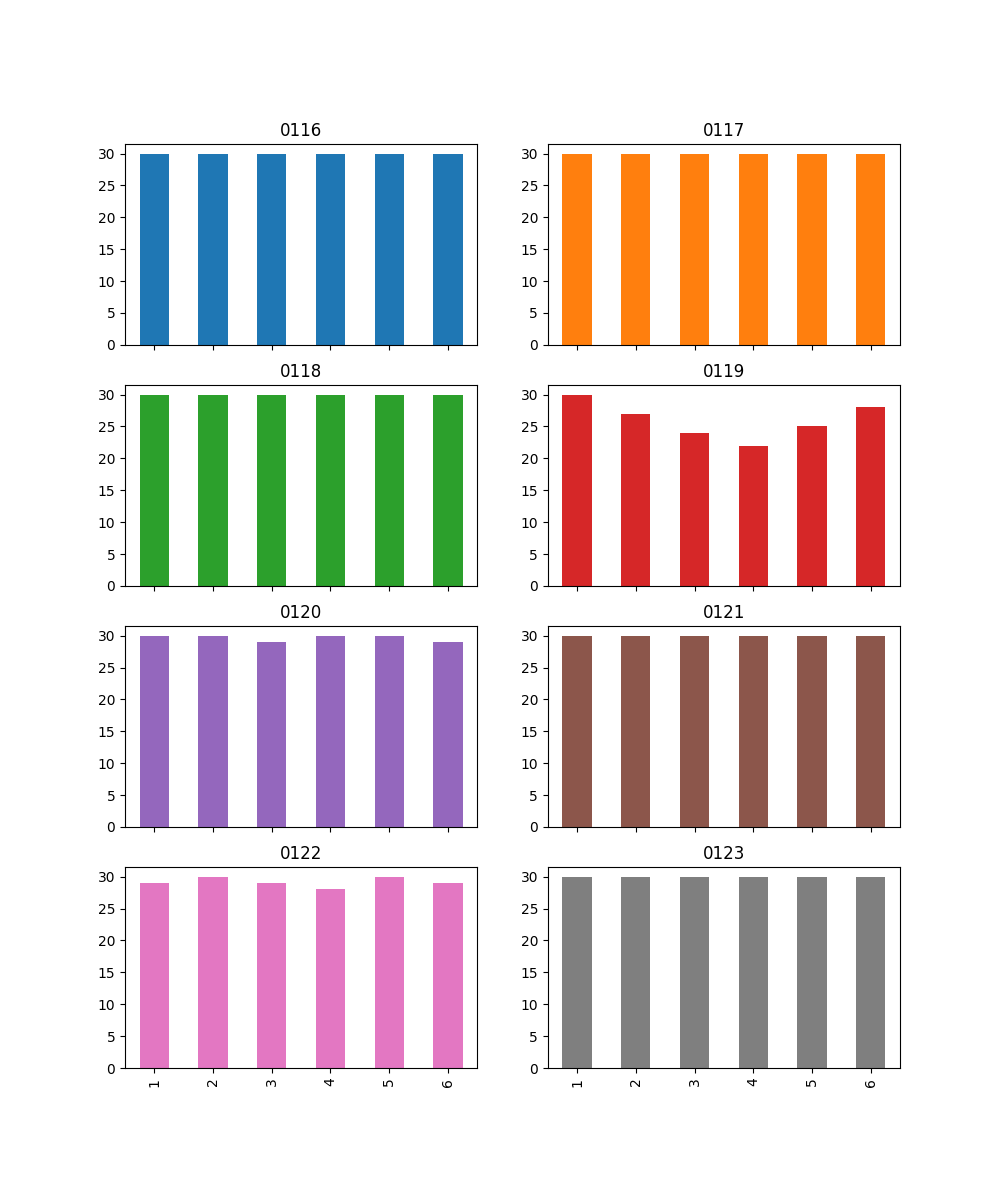
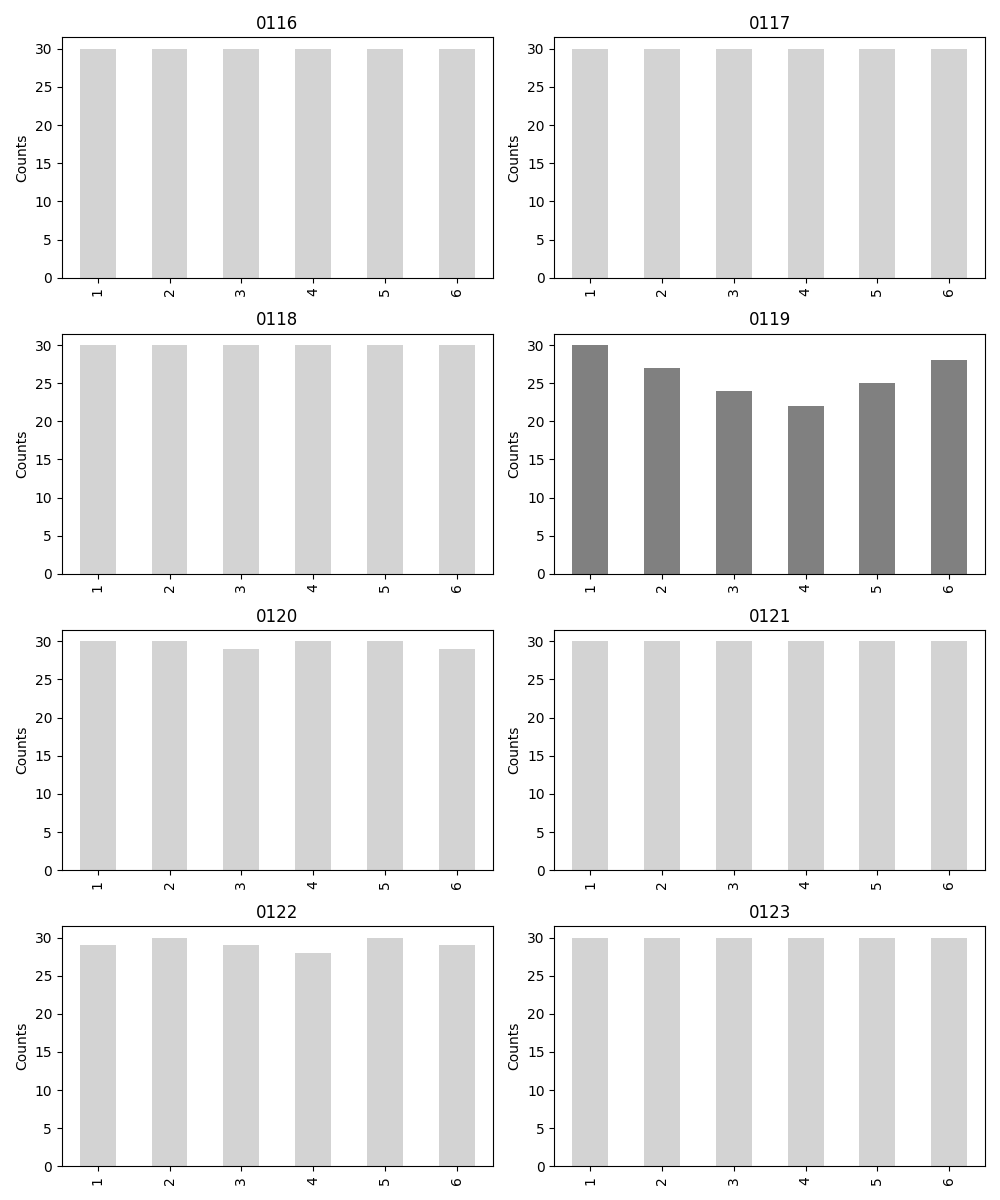
changed so outlier subjects are highlighted

diff --git a/src/sanity_check.py b/src/sanity_check.py
@@ -90,18 +90,25 @@ def get_button_press_per_run(bids_path, subjects_list,):
 
     return counts_df
 
-def plot_button_press_counts(counts_df, save_path=None):
+def plot_button_press_counts(counts_df, highlight_subjects, save_path=None):
     '''
     Plotting button press counts from a counts df using pandas 
     '''
-    # set canvas
-    plot = counts_df.plot(
-        subplots=True, 
-        layout=(4,2), 
-        kind = "bar", 
-        figsize=(10,12),
-        legend=False
-        )
+    # create subplots
+    fig, axes = plt.subplots(nrows=4, ncols=2, figsize=(10, 12))
+    axes = axes.flatten()
+
+    # set the plots
+    for i, column in enumerate(counts_df.columns):
+        ax = axes[i]
+        # Color condition
+        color = ['#808080' if col in highlight_subjects else '#D3D3D3' for col in counts_df.columns]
+        counts_df[column].plot(kind='bar', ax=ax, color=color[i])
+        ax.set_title(column)
+        ax.set_ylabel('Counts')
+        ax.legend().set_visible(False)
+
+    plt.tight_layout()
 
     # save fig
     if save_path:
@@ -119,7 +126,7 @@ def test():
     subjects = ["0116", "0117", "0118", "0119", "0120", "0121", "0122", "0123"]
     counts = get_button_press_per_run(bids_path, subjects)
 
-    plot_button_press_counts(counts, "button_press_sanity_check.png")
+    plot_button_press_counts(counts, highlight_subjects = ["0119"], save_path = "button_press_sanity_check.png")
 
 def main():
     # define paths 
@@ -138,7 +145,7 @@ def main():
     subjects = ["0116", "0117", "0118", "0119", "0120", "0121", "0122", "0123"]
     
     counts = get_button_press_per_run(bids_path, subjects)
-    plot_button_press_counts(counts, save_path = results_path / "button_press_sanity_check.png")
+    plot_button_press_counts(counts, highlight_subjects = ["0119"], save_path = "button_press_sanity_check.png")
 
 if __name__ == "__main__":
     main()
